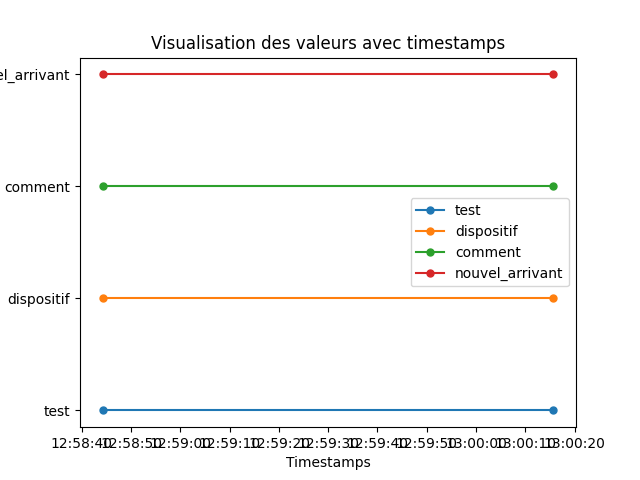
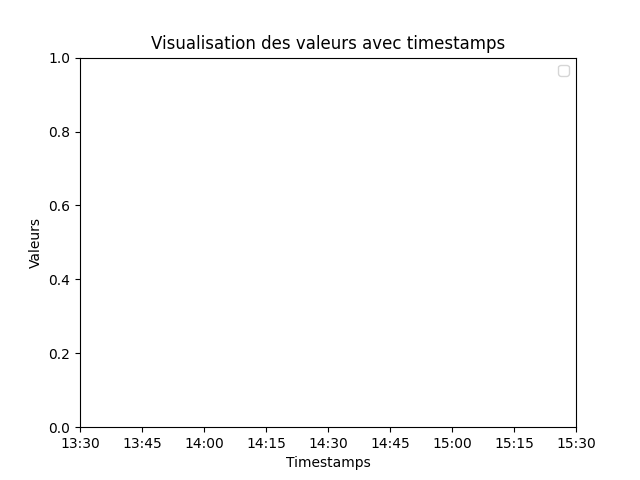
Gestion des timestamp

diff --git a/DataProcessing/main.py b/DataProcessing/main.py
@@ -1,6 +1,7 @@
 # This is a sample Python script.
 # Importez la classe CameraManager depuis votre module (supposons que le module s'appelle camera_manager.py)
 import matplotlib.pyplot as plt
+import matplotlib.dates as mdates
 import pandas as pd
 import pytz
 from InfluxDB.client import *  # API.InfluxDB import envoyer_donnees
@@ -16,10 +17,16 @@ BLUETOOTH_SAMPLES = 15  # en minutes
 WIFI_SAMPLES = 15  # en minutes
 
 
-
 def evaluate_presence(list_mac,id_dispositif):
+    current_time = datetime.utcnow()
+    timezone = pytz.utc
+    # influxdb_timestamp_max = pd.to_datetime((current_time + timedelta(hours=5)).strftime("'%Y-%m-%dT%H:%M:%S.%fZ'")).replace(tzinfo=timezone)
+    # influxdb_timestamp_min = pd.to_datetime((current_time - timedelta(hours=5)).strftime("'%Y-%m-%dT%H:%M:%S.%fZ'")).replace(tzinfo=timezone)
+
     horaires = get_horaires(id_dispositif)
-    horaire_debut, horaire_fin = horaires.split('-')
+    horaire_debut, horaire_fin = horaires.split('_')
+    horaire_debut = datetime.strptime(horaire_debut, '%Y-%m-%d %H:%M')
+    horaire_fin = datetime.strptime(horaire_fin, '%Y-%m-%d %H:%M')
 
     dictionnaire_valeurs = {}
 
@@ -49,10 +56,14 @@ def evaluate_presence(list_mac,id_dispositif):
         # Tracez les données triées pour cette valeur spécifique
         plt.plot(timestamps_sorted, valeurs_sorted, marker='o', linestyle='-', markersize=5, label=valeur)
 
-    # Limitez l'axe des abscisses entre les heures spécifiées
+    # Limitez l'axe des abscisses entre les valeurs spécifiées
     plt.xlim(horaire_debut, horaire_fin)
 
-    # Ajoutez des étiquettes et un titre
+    # Formattez l'axe des abscisses pour afficher uniquement l'heure et la minute
+    plt.gca().xaxis.set_major_formatter(mdates.DateFormatter('%H:%M'))
+
+
+# Ajoutez des étiquettes et un titre
     plt.xlabel('Timestamps')
     plt.ylabel('Valeurs')
     plt.title('Visualisation des valeurs avec timestamps')
@@ -87,22 +98,34 @@ if __name__ == '__main__':
     # camManager.recuperation_images()
     # camManager.analyze_images_in_folder()
 
+    # Date fictive
+    # date_fictive = datetime.today()
+
+    # Création des dates fictives à 13h30 et 15h30
+    # date_13h30 = date_fictive.replace(hour=13, minute=30)
+    # date_15h30 = date_fictive.replace(hour=15, minute=30)
+    # date_range_string = f'{date_13h30.strftime("%Y-%m-%d %H:%M")}_{date_15h30.strftime("%Y-%m-%d %H:%M")}'
+
     # Mock de l'envoi des données
-    # dispositif = Dispositif(150, "Raspberry", "E305", "13h30-15h30", "Enzo, Morgane, Emilien")
+    # dispositif = Dispositif(155, "Raspberry", "E303", date_range_string, "Enzo, Morgane, Emilien")
     # envoyer_donnees_dispositif(dispositif)
 
-    # data = Data(150, ["MAC1", "MAC2", "MAC3", "MAC4"])
+    # data = Data(155, ["MAC1", "MAC2", "MAC3", "MAC4"])
     # envoyer_donnes_data(data)
 
-    horaires = get_horaires("150")
+    horaires = get_horaires("155")
     print("Horaires reçues: ", horaires)
+    tz = pytz.timezone('Europe/Paris')
+    horaire_debut, horaire_fin = horaires.split('_')
+    horaire_debut = datetime.strptime(horaire_debut, '%Y-%m-%d %H:%M').astimezone(tz)
+    horaire_fin = datetime.strptime(horaire_fin, '%Y-%m-%d %H:%M').astimezone(tz)
 
-    current_time = datetime.utcnow()
-    timezone = pytz.utc
-    influxdb_timestamp_max = pd.to_datetime(current_time.strftime('%Y-%m-%dT%H:%M:%S.%fZ')).replace(tzinfo=timezone)
-    influxdb_timestamp_min = pd.to_datetime((current_time - timedelta(hours=5)).strftime("'%Y-%m-%dT%H:%M:%S.%fZ'")).replace(tzinfo=timezone)
+    # current_time = datetime.utcnow()
+    # timezone = pytz.utc
+    # influxdb_timestamp_max = pd.to_datetime(current_time.strftime('%Y-%m-%dT%H:%M:%S.%fZ')).replace(tzinfo=timezone)
+    # influxdb_timestamp_min = pd.to_datetime((current_time - timedelta(hours=5)).strftime("'%Y-%m-%dT%H:%M:%S.%fZ'")).replace(tzinfo=timezone)
 
-    data = get_data_in_horaire(influxdb_timestamp_min,influxdb_timestamp_max, "15")
+    data = get_data_in_horaire(horaire_debut,horaire_fin, "155")
     print("Data en lien avec cet horaire: ", data)
-    evaluate_presence(data,"150")
+    evaluate_presence(data,"155")
 # See PyCharm help at https://www.jetbrains.com/help/pycharm/

diff --git a/InfluxDB/client.py b/InfluxDB/client.py
@@ -1,3 +1,4 @@
+import pytz
 from influxdb_client import InfluxDBClient, Point
 from influxdb_client.client.write_api import SYNCHRONOUS
 from datetime import datetime, timedelta
@@ -48,12 +49,16 @@ def get_horaires(id_dispositif):
 
 def get_data_in_horaire(influxdb_timestamp_min,influxdb_timestamp_max, id_dispositif):
     client = InfluxDBClient(url=url, token=token, org=org)
+    # Convertissez influxdb_timestamp_min et influxdb_timestamp_max en objets datetime avec le même fuseau horaire
+    tz = pytz.timezone('Europe/Paris')
+    influxdb_timestamp_min = influxdb_timestamp_min
+    influxdb_timestamp_max = influxdb_timestamp_max
 
     query_second_table = f'''
-        from(bucket: "{bucket}")
-            |> range(start: -1d)
-            |> filter(fn: (r) => r["_measurement"] == "donnees" and r["ID_Dispositif"] == "{id_dispositif}")
-'''
+            from(bucket: "{bucket}")
+                |> range(start: -1d)
+                |> filter(fn: (r) => r["_measurement"] == "donnees" and r["ID_Dispositif"] == "{id_dispositif}")
+    '''
 
     resultats_second_table = client.query_api().query(query_second_table, org=org)
 
@@ -68,12 +73,12 @@ def get_data_in_horaire(influxdb_timestamp_min,influxdb_timestamp_max, id_dispos
     '''
     valeurs_filtrees = [
         {
-            "_time": row.values["_time"],
+            "_time": row.values["_time"].astimezone(tz),
             "_value": row.values["_value"]
         }
         for table in resultats_second_table
         for row in table.records
-        if influxdb_timestamp_min <= row.values["_time"] <= influxdb_timestamp_max
+        if influxdb_timestamp_min <= row.values["_time"].astimezone(tz) <= influxdb_timestamp_max
     ]
 
     print(valeurs_filtrees)
